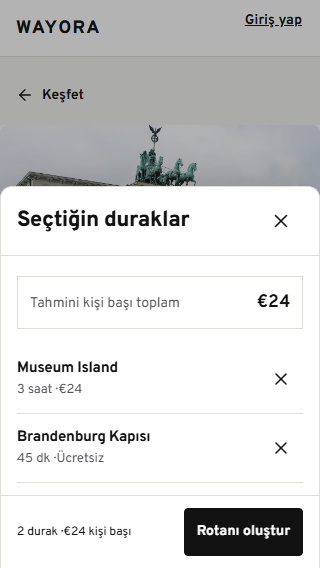
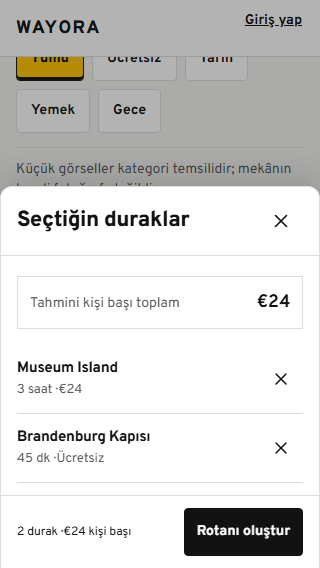
feat: surface live Ticketmaster events on city pages

diff --git a/web/src/components/LiveDiscovery.tsx b/web/src/components/LiveDiscovery.tsx
@@ -1,29 +1,15 @@
 import { useEffect, useState } from 'react'
 import type { FormEvent } from 'react'
-import { CalendarDays, ExternalLink, Plane, Ticket } from 'lucide-react'
+import { Plane, Ticket } from 'lucide-react'
 import { api } from '../api'
 import type { DiscoveryStatus, EventOffer, FlightSearchResult } from '../api'
 import { formatMoney, formatShortDate } from '../lib/format'
+import { EventFeed } from './EventFeed'
 
 type LiveDiscoveryProps = {
   city: string
   startDate: string
   endDate: string
-}
-
-function eventDate(event: EventOffer): string {
-  if (!event.startDate) return 'Tarih belirtilmedi'
-  const date = event.startDate.includes('T') ? event.startDate.slice(0, 10) : event.startDate
-  const time = event.startTime?.slice(0, 5)
-  return `${formatShortDate(date)}${time ? ` · ${time}` : ''}`
-}
-
-function eventPrice(event: EventOffer): string {
-  if (event.priceMin === null || event.priceMax === null || !event.currency) {
-    return 'Fiyat bilgisi yok'
-  }
-  if (event.priceMin === event.priceMax) return formatMoney(event.priceMin, event.currency)
-  return `${formatMoney(event.priceMin, event.currency)} - ${formatMoney(event.priceMax, event.currency)}`
 }
 
 function flightTime(value: string | null): string {
@@ -141,69 +127,18 @@ export function LiveDiscovery({ city, startDate, endDate }: LiveDiscoveryProps) 
           {statusError ? (
             <p className="discovery-empty">Sağlayıcı durumu alınamadı.</p>
           ) : statusPending ? (
-            <div className="discovery-skeleton" role="status" aria-label="Etkinlikler yükleniyor">
-              <span className="skeleton-line medium" />
-              <span className="skeleton-line" />
-              <span className="skeleton-line short" />
-            </div>
+            <EventFeed events={[]} loading />
           ) : ticketmasterMissing ? (
             <p className="discovery-empty">
               Canlı etkinlikler bu ortamda yapılandırılmadı. Anahtar eklendiğinde şehirdeki
               etkinlikler burada görünür.
             </p>
-          ) : eventsLoading ? (
-            <div className="discovery-skeleton" role="status" aria-label="Etkinlikler yükleniyor">
-              <span className="skeleton-line medium" />
-              <span className="skeleton-line" />
-              <span className="skeleton-line short" />
-            </div>
-          ) : eventsError ? (
-            <p className="notice error" role="alert">
-              {eventsError}
-            </p>
-          ) : eventsLoaded && events.length === 0 ? (
-            <p className="discovery-empty">
-              Bu tarihler için yaklaşan etkinlik bulunamadı.
-            </p>
           ) : (
-            <ul className="event-list">
-              {events.map((event) => (
-                <li className="event-row" key={event.id}>
-                  {event.imageUrl && (
-                    <img
-                      className="event-image"
-                      src={event.imageUrl}
-                      alt=""
-                      loading="lazy"
-                      decoding="async"
-                      onError={(event) => {
-                        event.currentTarget.style.display = 'none'
-                      }}
-                    />
-                  )}
-                  <div className="event-body">
-                    <h4>{event.name}</h4>
-                    <p className="event-meta">
-                      <CalendarDays size={14} strokeWidth={1.75} aria-hidden="true" />
-                      {eventDate(event)}
-                      {event.venue ? ` · ${event.venue}` : ''}
-                    </p>
-                    <p className="event-price">{eventPrice(event)}</p>
-                  </div>
-                  {event.url && (
-                    <a
-                      className="event-link"
-                      href={event.url}
-                      target="_blank"
-                      rel="noreferrer"
-                      aria-label={`${event.name} bilet sayfasını aç`}
-                    >
-                      <ExternalLink size={18} strokeWidth={1.75} />
-                    </a>
-                  )}
-                </li>
-              ))}
-            </ul>
+            <EventFeed
+              events={events}
+              loading={eventsLoading || !eventsLoaded}
+              error={eventsError}
+            />
           )}
           <p className="source-note">
             Etkinlik verisi Ticketmaster Discovery'dan gelir. Fiyat ve müsaitlik sağlayıcıda

diff --git a/web/src/components/CityEvents.tsx b/web/src/components/CityEvents.tsx
@@ -1,0 +1,92 @@
+import { useEffect, useState } from 'react'
+import { CalendarDays } from 'lucide-react'
+import { api } from '../api'
+import type { DiscoveryStatus, EventOffer } from '../api'
+import { EventFeed } from './EventFeed'
+import { todayIso } from '../lib/format'
+
+type CityEventsProps = {
+  city: string
+}
+
+export function CityEvents({ city }: CityEventsProps) {
+  const startDate = todayIso(0)
+  const endDate = todayIso(60)
+  const [status, setStatus] = useState<DiscoveryStatus | null>(null)
+  const [events, setEvents] = useState<EventOffer[]>([])
+  const [loading, setLoading] = useState(false)
+  const [error, setError] = useState<string | null>(null)
+
+  useEffect(() => {
+    let active = true
+    api
+      .getDiscoveryStatus()
+      .then((result) => {
+        if (!active) return
+        setStatus(result)
+        if (result.providers.ticketmaster !== 'configured') return
+        setLoading(true)
+        api
+          .listEvents(city, startDate, endDate)
+          .then((response) => {
+            if (active) setEvents(response.events)
+          })
+          .catch((err) => {
+            if (active) setError(err instanceof Error ? err.message : 'Etkinlikler yüklenemedi.')
+          })
+          .finally(() => {
+            if (active) setLoading(false)
+          })
+      })
+      .catch((err) => {
+        if (active) setError(err instanceof Error ? err.message : 'Keşif servisi yüklenemedi.')
+      })
+    return () => {
+      active = false
+    }
+  }, [city, endDate, startDate])
+
+  const missing = status?.providers.ticketmaster === 'missing'
+  const pending = !status && !error
+
+  return (
+    <section className="city-events" aria-labelledby="city-events-title">
+      <div className="section-head">
+        <div>
+          <p className="label">CANLI KEŞİF</p>
+          <h2 id="city-events-title">Şehirde yaklaşan etkinlikler</h2>
+        </div>
+        <span className="provider-label">Ticketmaster · 60 gün</span>
+      </div>
+      <article className="discovery-panel">
+        <div className="discovery-panel-head">
+          <div>
+            <p className="label">TICKETMASTER DISCOVERY</p>
+            <h3>Etkinlikler</h3>
+          </div>
+          <CalendarDays size={22} strokeWidth={1.75} aria-hidden="true" />
+        </div>
+        {error ? (
+          <p className="notice error" role="alert">
+            {error}
+          </p>
+        ) : missing ? (
+          <p className="discovery-empty">
+            Canlı etkinlikler bu ortamda yapılandırılmadı. Anahtar eklendiğinde şehirdeki
+            etkinlikler burada görünür.
+          </p>
+        ) : (
+          <EventFeed
+            events={events}
+            loading={pending || loading}
+            emptyText="Önümüzdeki 60 gün için etkinlik bulunamadı."
+          />
+        )}
+        <p className="source-note">
+          Etkinlik verisi Ticketmaster Discovery'dan gelir. Bilet işlemi Ticketmaster üzerinde
+          tamamlanır; fiyat ve müsaitlik sağlayıcıda değişebilir.
+        </p>
+      </article>
+    </section>
+  )
+}

diff --git a/web/src/components/EventFeed.tsx b/web/src/components/EventFeed.tsx
@@ -1,0 +1,95 @@
+import { CalendarDays, ExternalLink } from 'lucide-react'
+import type { EventOffer } from '../api'
+import { formatMoney, formatShortDate } from '../lib/format'
+
+function eventDate(event: EventOffer): string {
+  if (!event.startDate) return 'Tarih belirtilmedi'
+  const date = event.startDate.includes('T') ? event.startDate.slice(0, 10) : event.startDate
+  const time = event.startTime?.slice(0, 5)
+  return `${formatShortDate(date)}${time ? ` · ${time}` : ''}`
+}
+
+function eventPrice(event: EventOffer): string {
+  if (event.priceMin === null || event.priceMax === null || !event.currency) {
+    return 'Fiyat bilgisi yok'
+  }
+  if (event.priceMin === event.priceMax) return formatMoney(event.priceMin, event.currency)
+  return `${formatMoney(event.priceMin, event.currency)} - ${formatMoney(event.priceMax, event.currency)}`
+}
+
+type EventFeedProps = {
+  events: EventOffer[]
+  loading?: boolean
+  error?: string | null
+  emptyText?: string
+}
+
+export function EventFeed({
+  events,
+  loading = false,
+  error = null,
+  emptyText = 'Bu tarihler için yaklaşan etkinlik bulunamadı.',
+}: EventFeedProps) {
+  if (loading) {
+    return (
+      <div className="discovery-skeleton" role="status" aria-label="Etkinlikler yükleniyor">
+        <span className="skeleton-line medium" />
+        <span className="skeleton-line" />
+        <span className="skeleton-line short" />
+      </div>
+    )
+  }
+
+  if (error) {
+    return (
+      <p className="notice error" role="alert">
+        {error}
+      </p>
+    )
+  }
+
+  if (events.length === 0) {
+    return <p className="discovery-empty">{emptyText}</p>
+  }
+
+  return (
+    <ul className="event-list">
+      {events.map((event) => (
+        <li className="event-row" key={event.id}>
+          {event.imageUrl && (
+            <img
+              className="event-image"
+              src={event.imageUrl}
+              alt=""
+              loading="lazy"
+              decoding="async"
+              onError={(imageEvent) => {
+                imageEvent.currentTarget.style.display = 'none'
+              }}
+            />
+          )}
+          <div className="event-body">
+            <h4>{event.name}</h4>
+            <p className="event-meta">
+              <CalendarDays size={14} strokeWidth={1.75} aria-hidden="true" />
+              {eventDate(event)}
+              {event.venue ? ` · ${event.venue}` : ''}
+            </p>
+            <p className="event-price">{eventPrice(event)}</p>
+          </div>
+          {event.url && (
+            <a
+              className="event-link"
+              href={event.url}
+              target="_blank"
+              rel="noreferrer"
+              aria-label={`${event.name} bilet sayfasını aç`}
+            >
+              <ExternalLink size={18} strokeWidth={1.75} />
+            </a>
+          )}
+        </li>
+      ))}
+    </ul>
+  )
+}

diff --git a/web/src/pages/CityPage.tsx b/web/src/pages/CityPage.tsx
@@ -4,6 +4,7 @@ import { ArrowLeft, Check, Plus, X } from 'lucide-react'
 import { api } from '../api'
 import type { CityDetail, CityExperience } from '../api'
 import { BottomSheet } from '../components/BottomSheet'
+import { CityEvents } from '../components/CityEvents'
 import { Photo } from '../components/Photo'
 import { DetailSkeleton } from '../components/Skeletons'
 import { formatMoney } from '../lib/format'
@@ -325,6 +326,8 @@ export function CityPage() {
         </div>
         </>
       )}
+
+      <CityEvents city={city.name} />
 
       {hasSelection && (
         <div className="sticky-action" aria-live="polite">

diff --git a/web/src/index.css b/web/src/index.css
@@ -2665,6 +2665,23 @@ p {
   border-top: 1px solid var(--line);
 }
 
+.city-events {
+  margin-top: 32px;
+  padding-top: 24px;
+  border-top: 1px solid var(--line);
+}
+
+.city-events .section-head {
+  align-items: flex-start;
+  margin-bottom: 16px;
+}
+
+.city-events .section-head h2 {
+  margin: 2px 0 0;
+  font-size: 26px;
+  line-height: 31px;
+}
+
 .live-discovery .section-head {
   align-items: flex-start;
   margin-bottom: 16px;

diff --git a/README.md b/README.md
@@ -68,11 +68,13 @@ Mevcut sürümde kullanıcı:
 - 3 adımlı yeni rota sihirbazı: şehir → tarih → bütçe/tempo.
 - Rota detayında gün sekmeleri, gün panosu, dikey rota çizgisi, liste/harita görünümü,
   durak ekleme/silme ve sürükleme, klavye ve butonlarla sıralama.
+- Şehir sayfasında ve rota detayında Ticketmaster ile canlı etkinlik keşfi; rota detayında
+  Duffel test token'ı varsa uçuş fikri.
 - Rotalarım ekranında yaklaşan, taslak ve geçmiş rotalar; silme onayı.
 - Profilde kayıtlı tercihleri görüntüleme ve düzenleme.
-- **Canlı keşif:** Ticketmaster Discovery ile şehir etkinlikleri; Duffel test token'ı
-  varsa uçuş fikri. Anahtar yoksa bölüm uydurma veri üretmez, yapılandırma notu gösterir.
-  Otel/rezervasyon satışı bu sürümde yoktur.
+- **Canlı keşif:** Ticketmaster Discovery ile şehir sayfasında ve rota detayında
+  şehir etkinlikleri; Duffel test token'ı varsa uçuş fikri. Anahtar yoksa bölüm uydurma
+  veri üretmez, yapılandırma notu gösterir. Otel/rezervasyon satışı bu sürümde yoktur.
 
 ### Dayanıklılık
 
@@ -189,7 +191,7 @@ Anahtar yoksa uygulama offline modda çalışmaya devam eder.
 
 ### Ücretsiz canlı keşif (opsiyonel)
 
-Rota detayındaki “Canlı keşif” bölümü iki sağlayıcıyı destekler:
+Rota detayındaki ve şehir sayfasındaki “Canlı keşif” bölümü iki sağlayıcıyı destekler:
 
 - **Ticketmaster Discovery:** ücretsiz developer anahtarı; varsayılan kota günde 5.000 çağrı.
   Etkinlik keşfi ve bilet sayfası bağlantısı sağlar, bilet satın almaz.

diff --git a/docs/specs/002-live-discovery/spec.md b/docs/specs/002-live-discovery/spec.md
@@ -12,7 +12,7 @@ sağlayıcılarla sınırlı bir keşif katmanı eklenir.
 - Duffel test token'ı ile uçuş teklifi arama.
 - Sağlayıcı anahtarları yalnızca backend'de.
 - Anahtar yoksa özellik kapalı; uydurma etkinlik/uçuş fiyatı üretilmez.
-- Rota detayında “Canlı keşif” bölümü.
+- Şehir sayfasında ve rota detayında “Canlı keşif” bölümü.
 
 ## Kapsam dışı
 
